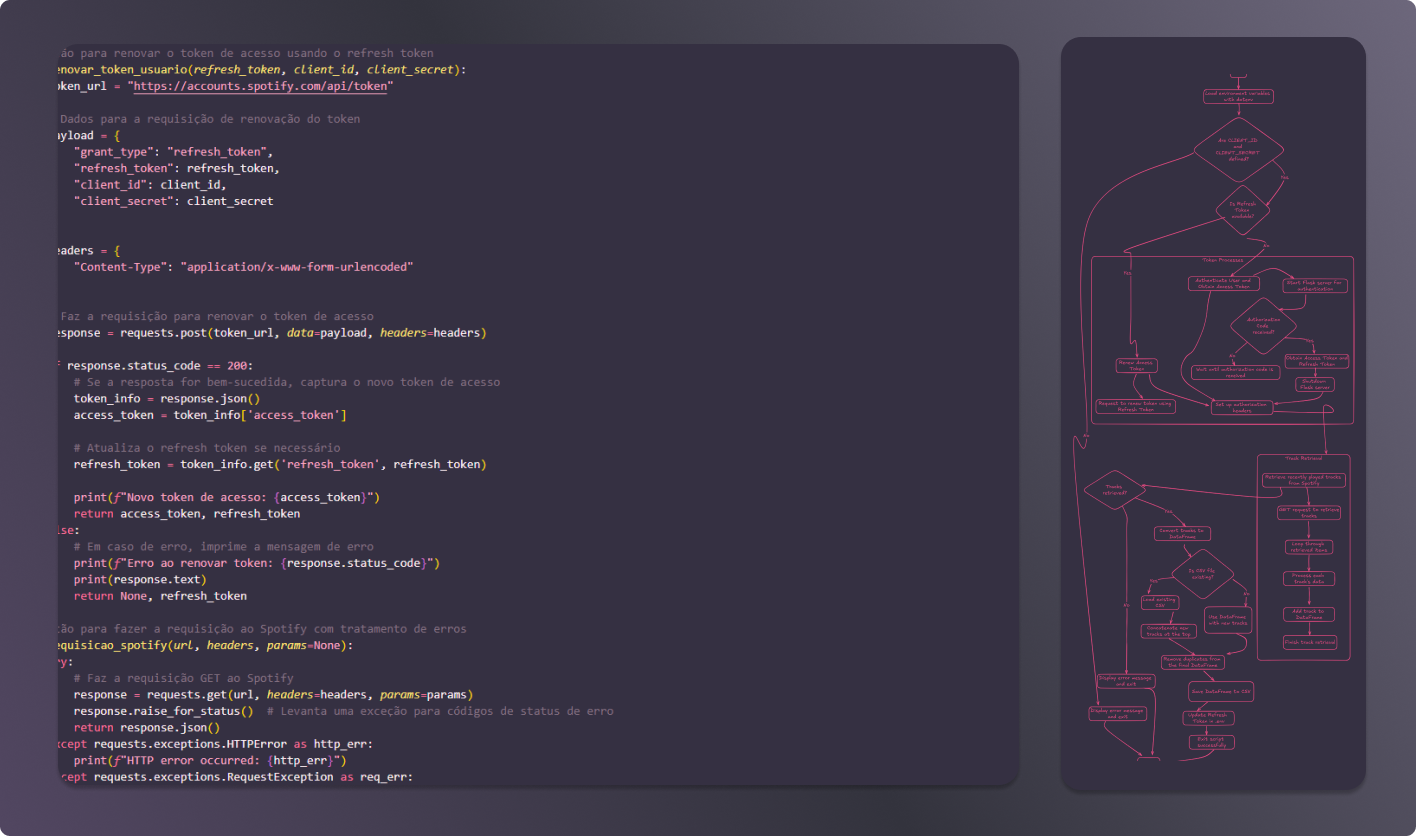
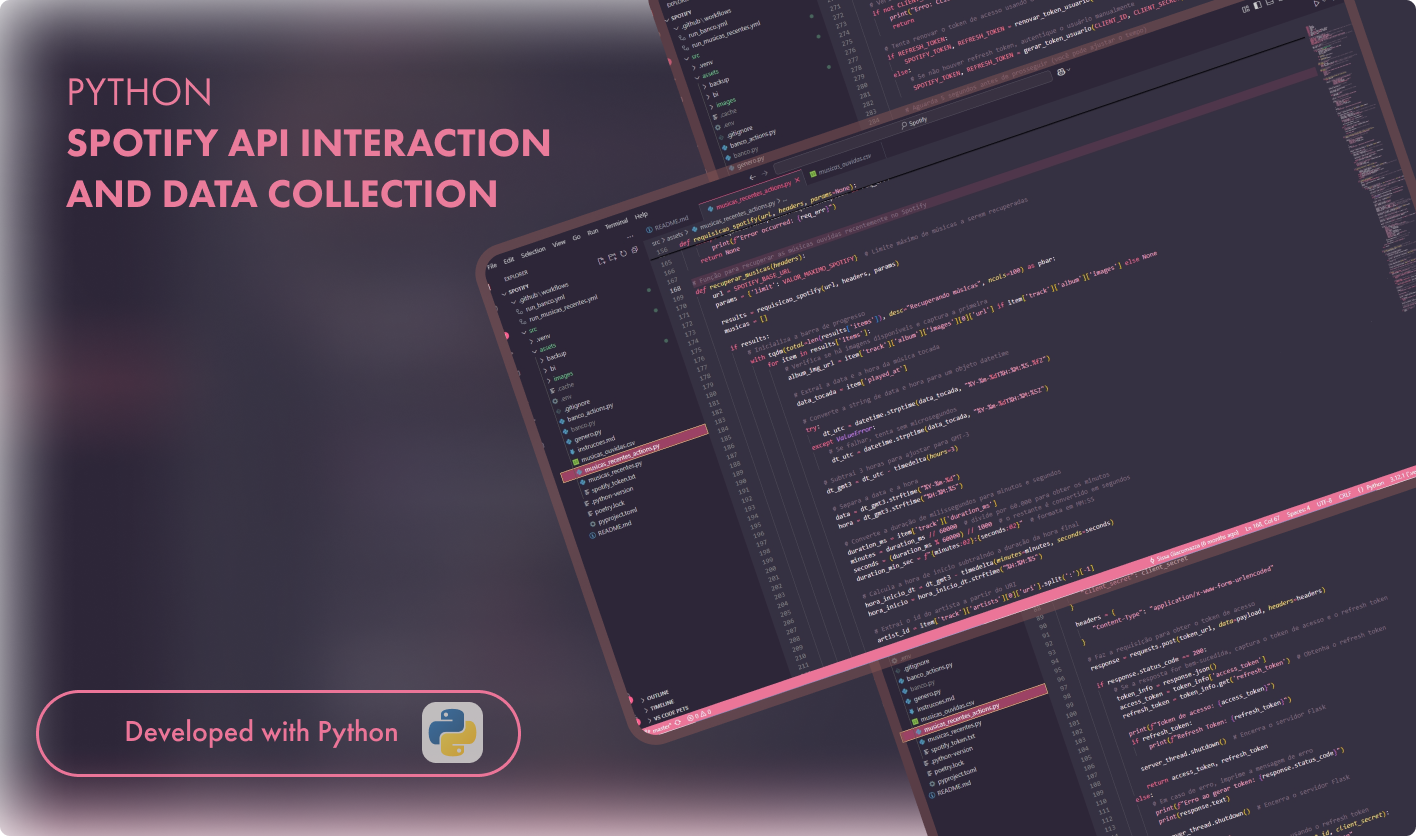
update

diff --git a/index.html b/index.html
@@ -240,6 +240,30 @@
               data-category="power bi"
             >
               <a
+                href="https://app.powerbi.com/view?r=eyJrIjoiYWJhOWY3Y2EtMzIxOC00NDgxLTljM2EtYjUxMDI4MzQyOGYxIiwidCI6IjFlYjVjZjY1LWJiMjUtNDlmYi1iZDNlLTIxNWQ4NDQ4YWZkNCJ9&pageName=c8d47b0567c8cd439449"
+                target="_blank"
+              >
+                <figure class="project-img">
+                  <div class="project-item-icon-box">
+                    <ion-icon name="eye-outline"></ion-icon>
+                  </div>
+                  <img
+                    src="./assets/images/Super Store Power BI.png"
+                    alt="Power BI"
+                    loading="lazy"
+                  >
+                </figure>
+                <h3 class="project-title">Super Store Power BI | EN-US</h3>
+                <p class="project-category">Power BI</p>
+              </a>
+            </li>
+
+            <li
+              class="project-item active"
+              data-filter-item
+              data-category="power bi"
+            >
+              <a
                 href="https://app.powerbi.com/view?r=eyJrIjoiYmY4MmRmN2YtMmViYS00ODkzLWFmN2UtMDk5ZjNmZWFkMjAzIiwidCI6IjFlYjVjZjY1LWJiMjUtNDlmYi1iZDNlLTIxNWQ4NDQ4YWZkNCJ9&pageName=ReportSection"
                 target="_blank"
               >
@@ -248,15 +272,42 @@
                     <ion-icon name="eye-outline"></ion-icon>
                   </div>
                   <img
-                    src="./assets/images/PowerBI.png"
+                    src="./assets/images/Ticket Sales Power BI.png"
                     alt="Power BI"
                     loading="lazy"
                   >
                 </figure>
-                <h3 class="project-title">Ticket Sales Performance Analysis | PT-BR</h3>
+                <h3 class="project-title">Ticket Sales Performance | PT-BR</h3>
                 <p class="project-category">Power BI</p>
               </a>
             </li>
+
+            <li
+            class="project-item active"
+            data-filter-item
+            data-category="python"
+          >
+            <a
+              href="https://github.com/Sissaz/duckdb"
+              target="_blank"
+            >
+              <figure class="project-img">
+                <div class="project-item-icon-box">
+                  <ion-icon name="eye-outline"></ion-icon>
+                </div>
+                <img
+                  src="./assets/images/Ticket Storage Python.png"
+                  alt="python"
+                  loading="lazy"
+                >
+              </figure>
+              <h3 class="project-title">
+                ETL for Ticket Sales Performance Dashboard | EN-US
+              </h3>
+              <p class="project-category">Python</p>
+            </a>
+          </li>
+
 
             <li
               class="project-item active"
@@ -272,7 +323,7 @@
                     <ion-icon name="eye-outline"></ion-icon>
                   </div>
                   <img
-                    src="./assets/images/TableauSpotify.png"
+                    src="./assets/images/Spotify Tableau.png"
                     alt="Tableau"
                     loading="lazy"
                   >
@@ -296,67 +347,17 @@
                     <ion-icon name="eye-outline"></ion-icon>
                   </div>
                   <img
-                    src="./assets/images/TableauGames.png"
+                    src="./assets/images/Video Games Tableau.png"
                     alt="Tableau"
                     loading="lazy"
                   >
                 </figure>
-                <h3 class="project-title">Video Game Sales Analysis up to 2016 | PT-BR, EN-US</h3>
+                <h3 class="project-title">Video Game Sales Analysis| PT-BR, EN-US</h3>
                 <p class="project-category">Tableau</p>
               </a>
             </li>
 
-            <li
-              class="project-item active"
-              data-filter-item
-              data-category="tableau"
-            >
-              <a
-                href="https://public.tableau.com/app/profile/sicilia.giacomazza/viz/MobileBurgerKing/DadosNutricionaisBK"
-                target="_blank"
-              >
-                <figure class="project-img">
-                  <div class="project-item-icon-box">
-                    <ion-icon name="eye-outline"></ion-icon>
-                  </div>
-                  <img
-                    src="./assets/images/TableauBK.png"
-                    alt="Tableau"
-                    loading="lazy"
-                  >
-                </figure>
-                <h3 class="project-title">
-                  Nutritional Analysis of Burger King - Mobile Version | PT-BR
-                </h3>
-                <p class="project-category">Tableau</p>
-              </a>
-            </li>
 
-            <li
-              class="project-item active"
-              data-filter-item
-              data-category="python"
-            >
-              <a
-                href="https://github.com/Sissaz/duckdb"
-                target="_blank"
-              >
-                <figure class="project-img">
-                  <div class="project-item-icon-box">
-                    <ion-icon name="eye-outline"></ion-icon>
-                  </div>
-                  <img
-                    src="./assets/images/Python.png"
-                    alt="python"
-                    loading="lazy"
-                  >
-                </figure>
-                <h3 class="project-title">
-                  ETL Project with Python for a Bus Ticket Sales Performance Analysis Dashboard | EN-US
-                </h3>
-                <p class="project-category">Python</p>
-              </a>
-            </li>
 
             <li
               class="project-item active"
@@ -415,6 +416,48 @@
 
 
     <!-- Power BI -->
+
+    <li
+    class="gallery-item active"
+    data-gallery-item
+    data-gallery-category="power bi"
+  >
+    <a href="https://app.powerbi.com/view?r=eyJrIjoiYWJhOWY3Y2EtMzIxOC00NDgxLTljM2EtYjUxMDI4MzQyOGYxIiwidCI6IjFlYjVjZjY1LWJiMjUtNDlmYi1iZDNlLTIxNWQ4NDQ4YWZkNCJ9&pageName=c8d47b0567c8cd439449" target="_blank">
+      <figure class="gallery-img">
+        <!-- Caixa do ícone -->
+        <div class="gallery-item-icon-box">
+          <ion-icon name="eye-outline"></ion-icon>
+        </div>
+        <!-- Imagem -->
+        <img
+          src="./assets/images/Super Store1.jpg"
+          loading="lazy"
+        >
+      </figure>
+    </a>
+  </li>
+
+
+    <li
+    class="gallery-item active"
+    data-gallery-item
+    data-gallery-category="power bi"
+  >
+    <a href="https://app.powerbi.com/view?r=eyJrIjoiYWJhOWY3Y2EtMzIxOC00NDgxLTljM2EtYjUxMDI4MzQyOGYxIiwidCI6IjFlYjVjZjY1LWJiMjUtNDlmYi1iZDNlLTIxNWQ4NDQ4YWZkNCJ9&pageName=c8d47b0567c8cd439449" target="_blank">
+      <figure class="gallery-img">
+        <!-- Caixa do ícone -->
+        <div class="gallery-item-icon-box">
+          <ion-icon name="eye-outline"></ion-icon>
+        </div>
+        <!-- Imagem -->
+        <img
+          src="./assets/images/Super Store2.jpg"
+          loading="lazy"
+        >
+      </figure>
+    </a>
+  </li>
+
 
   <li
   class="gallery-item active"
